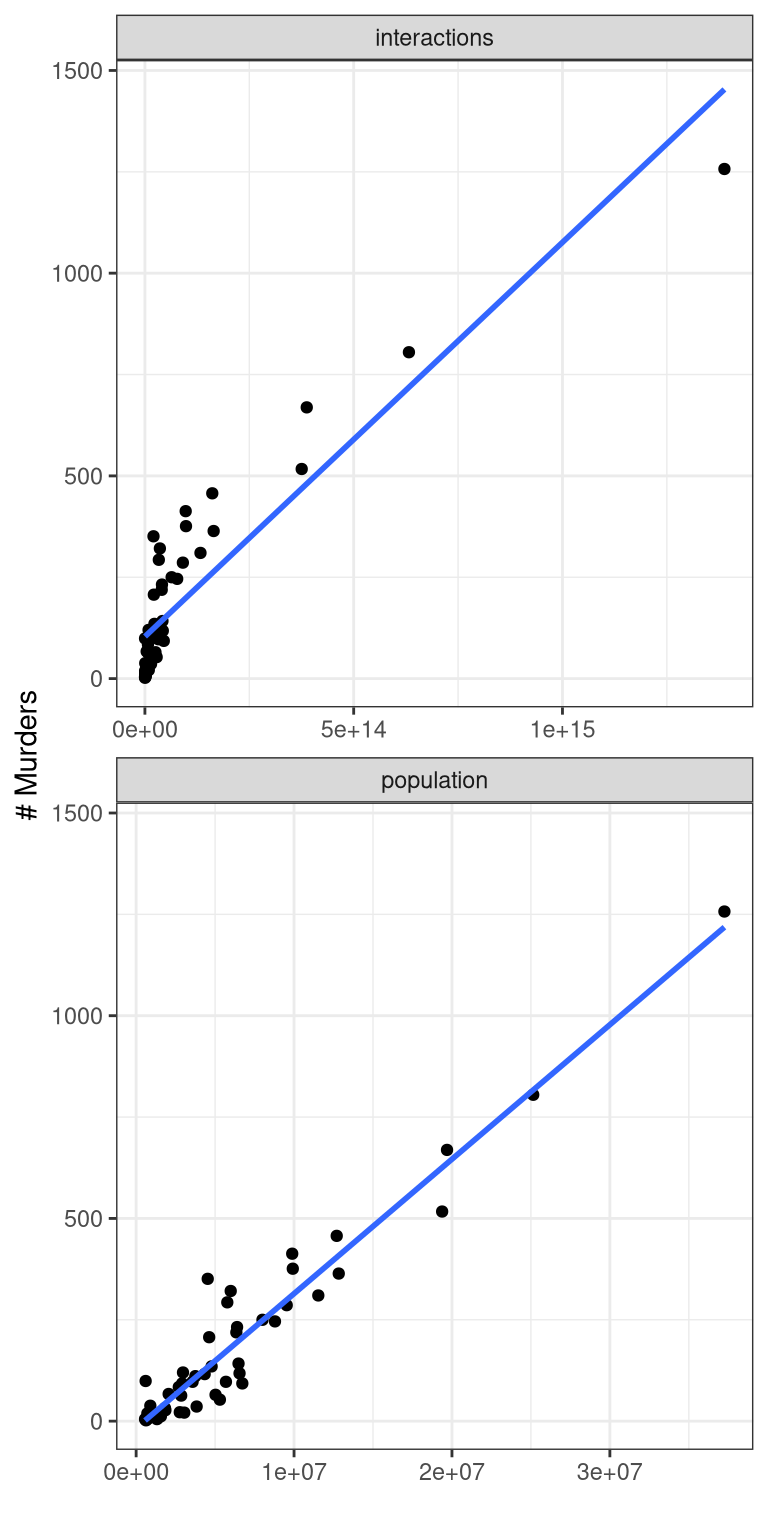
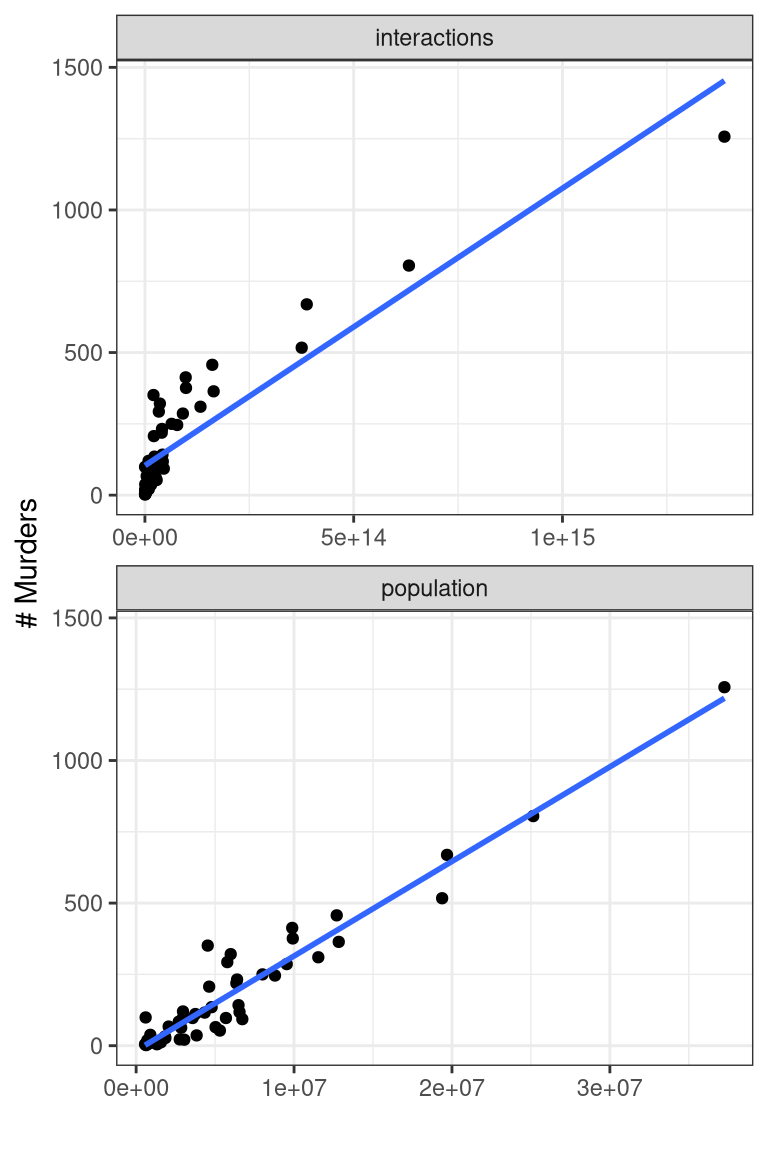
tweaks

diff --git a/docs/slides/10-r-prog.html b/docs/slides/10-r-prog.html
@@ -483,7 +483,7 @@
 <h3 id="number-of-evenodd-values">Number of Even/Odd Values</h3>
 <div class="quarto-figure quarto-figure-center">
 <figure>
-<p><a href="images/long-division.png" class="lightbox" data-gallery="quarto-lightbox-gallery-7" title="Remember this?"><img data-src="images/long-division.png" alt="A long division problem (75 divided by 4) with the parts labeled: 4 is the divisor, 75 is the dividend, 18 is the quotient, 3 is the remainder. The problem shows the 7-4 step, where the remainder is 35, and then shows 35-32 = 03 for the remainder."></a></p>
+<p><a href="images/long-division.png" class="lightbox" data-gallery="quarto-lightbox-gallery-7" title="Remember this?"><img data-src="images/long-division.png" style="width:80.0%" alt="A long division problem (75 divided by 4) with the parts labeled: 4 is the divisor, 75 is the dividend, 18 is the quotient, 3 is the remainder. The problem shows the 7-4 step, where the remainder is 35, and then shows 35-32 = 03 for the remainder."></a></p>
 <figcaption>Remember this?</figcaption>
 </figure>
 </div>
@@ -538,11 +538,15 @@
 51     5      1</code></pre>
 </div>
 </div></div>
-<p><a href="images/murders-modulo-demo.png" class="lightbox" data-gallery="quarto-lightbox-gallery-8"><img data-src="images/murders-modulo-demo.png" style="width:60.0%" alt="An image of the first 6 rows + last 6 rows of the murders data, showing columns state, abb, region, population, total, and rate, with corresponding values for alabama, alaska, arizona, arkansas, california, colorado, vermont, virginia, washington, west virginia, wisconsin, and wyoming. Total values which are odd are highlighted in red. A second table is shown next to the first, with just columns total and modulo. The total column is the same as previously shown, and the modulo column has 1 if the value in total is odd, 0 if it is even."></a></p>
 </section>
 <section id="doing-math-with-columns-3" class="slide level2">
 <h2>Doing Math With Columns</h2>
 <h3 id="number-of-evenodd-values-3">Number of Even/Odd Values</h3>
+<p><a href="images/murders-modulo-demo.png" class="lightbox" data-gallery="quarto-lightbox-gallery-8"><img data-src="images/murders-modulo-demo.png" style="width:60.0%" alt="An image of the first 6 rows + last 6 rows of the murders data, showing columns state, abb, region, population, total, and rate, with corresponding values for alabama, alaska, arizona, arkansas, california, colorado, vermont, virginia, washington, west virginia, wisconsin, and wyoming. Total values which are odd are highlighted in red. A second table is shown next to the first, with just columns total and modulo. The total column is the same as previously shown, and the modulo column has 1 if the value in total is odd, 0 if it is even."></a></p>
+</section>
+<section id="doing-math-with-columns-4" class="slide level2">
+<h2>Doing Math With Columns</h2>
+<h3 id="number-of-evenodd-values-4">Number of Even/Odd Values</h3>
 <div class="cell">
 <div class="code-copy-outer-scaffold"><div class="sourceCode cell-code" id="annotated-cell-5"><pre class="sourceCode numberSource r code-annotation-code number-lines code-with-copy code-annotated"><code class="sourceCode r"><span id="annotated-cell-5-1"><a href="#annotated-cell-5-1"></a>tmp <span class="ot">&lt;-</span> <span class="fu">data.frame</span>(</span>
 <span id="annotated-cell-5-2"><a href="#annotated-cell-5-2"></a>  <span class="at">total =</span> murders<span class="sc">$</span>total,</span>
@@ -568,7 +572,7 @@
 </div>
 </div>
 </section>
-<section id="doing-math-with-columns-4" class="slide level2">
+<section id="doing-math-with-columns-5" class="slide level2">
 <h2>Doing Math With Columns</h2>
 <h3 id="taking-columns-to-a-power">Taking Columns to a Power</h3>
 <p>Suppose we know that the number of person-to-person interactions is proportional to the number of people (<span class="math inline">\(n\)</span>) squared (e.g.&nbsp;<span class="math inline">\(n^2\)</span>)</p>
@@ -626,9 +630,9 @@
 <li class="fragment"><p><strong>pipes</strong> allow us to “chain” functions together into a “recipe” of steps to take</p></li>
 </ul>
 </section>
-<section id="pipes-1" class="slide level2">
-<h2>Pipes</h2>
-<p><a href="images/Pipe_baking_backAssign.gif" class="lightbox" data-gallery="quarto-lightbox-gallery-10"><img data-src="images/Pipe_baking_backAssign.gif" style="width:70.0%" alt="A gif showing ingredients being piped into a mix function. The batter from the mix function is then piped into a bake function. The bake function outputs a cake, which is then piped into a decorate function, and the resulting decorated cake is piped into a slice function, which is assigned to cake slice at the top. "></a></p>
+<section class="slide level2">
+
+<p><a href="images/Pipe_baking_backAssign.gif" class="lightbox" data-gallery="quarto-lightbox-gallery-10"><img data-src="images/Pipe_baking_backAssign.gif" style="width:50.0%" alt="A gif showing ingredients being piped into a mix function. The batter from the mix function is then piped into a bake function. The bake function outputs a cake, which is then piped into a decorate function, and the resulting decorated cake is piped into a slice function, which is assigned to cake slice at the top. "></a></p>
 <p><span class="emph large sage-dk fragment">Pipes are essential to working with tidyverse functions</span></p>
 </section></section>
 <section>
